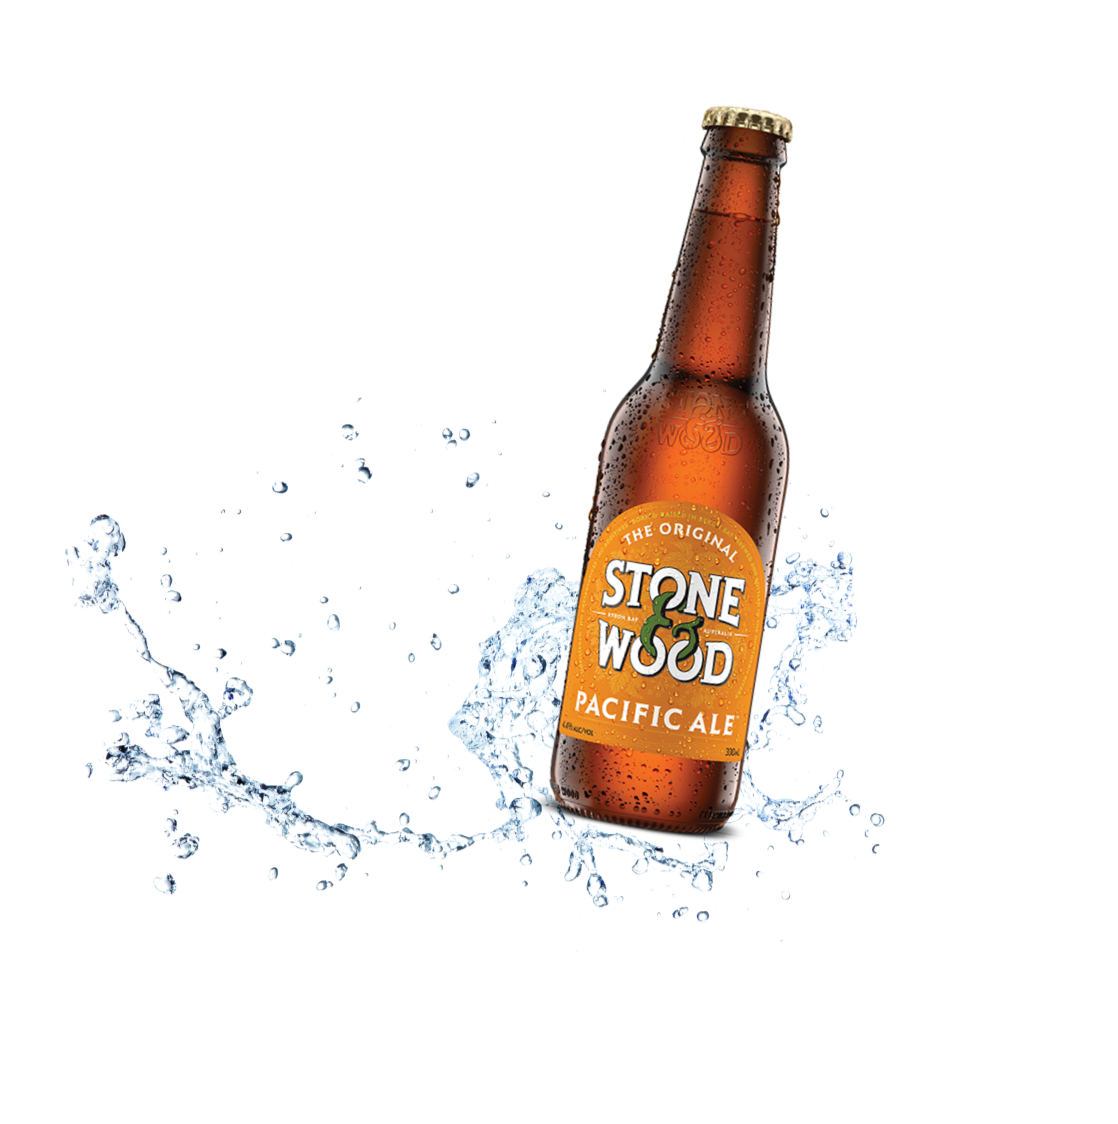
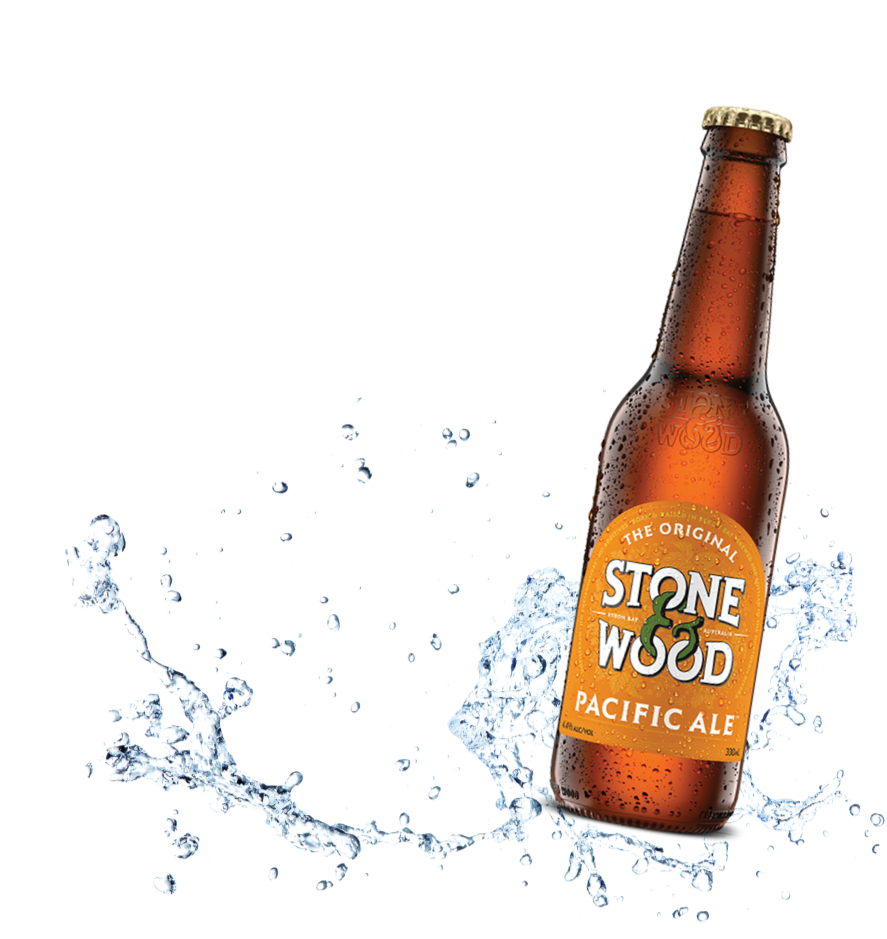
[update] 商品概要セクションの画像位置調整

diff --git a/index.html b/index.html
@@ -80,14 +80,26 @@
 
     </div>
     <div class="product_section">
-      <p class="product_slogan_top"><span class="orange_text">フルーティー</span>な<span class="blue_text">波</span>とともに、<br>最高の時間を過ごしてみませんか？</p>
-      <p class="product_pacificale_title">パシフィックエール</p>
-      <p class="product_pacificale_comment">オーストラリアのバイロベンというところでしか<br>手に入らない希少価値の高いビールです。<br>爽やかな味わいとフルーティーな後味が特徴</p>
-      <img class="product_beer" src="./assets/img/product_beer.png" width="1118" height="1124">
-      <img class="product_slogan_middle" src="./assets/img/product_text.svg" width="765" height="127">
-      <p class="product_lager_comment">ラガーは5度前後の低温で発酵するのに<br>対し、エールは常温〜やや高温で発酵<br>するため、<br>常温でも美味しく飲める！</p>
-      <p class="product_tropical_comment">パッションフルーツ、柑橘系、<br>トロピカルフルーツなど<br>南国を感じる香り！</p>
-      <img class="fruits_beer" src="./assets/img/fruits_beer.png" width="1376" height="975">
+      <div class="product_container">
+        <p class="product_slogan_top"><span class="orange_text">フルーティー</span>な<span class="blue_text">波</span>とともに、<br>最高の時間を過ごしてみませんか？</p>
+        <div class="product_text_wrap">
+          <p class="product_pacificale_title">パシフィックエール</p>
+          <p class="product_pacificale_comment">オーストラリアのバイロベンというところでしか<br>手に入らない希少価値の高いビールです。<br>爽やかな味わいとフルーティーな後味が特徴</p>
+        </div>
+        <img class="product_beer" src="./assets/img/product_beer.png" width="1118" height="1124">
+        <section class="product_middle_section">
+          <div class="product_slogan_middle">
+            <img src="./assets/img/product_text.svg" width="765" height="127">
+          </div>
+          <div class="product_lager_area">
+            <p class="product_lager_comment">ラガーは5度前後の低温で発酵するのに<br>対し、エールは常温〜やや高温で発酵<br>するため、<br>常温でも美味しく飲める！</p>
+            <p class="product_tropical_comment">パッションフルーツ、柑橘系、<br>トロピカルフルーツなど<br>南国を感じる香り！</p>
+          </div>
+          <div class="fruits_beer">
+            <img src="./assets/img/fruits_beer.png" width="1199" height="843">
+          </div>
+        </section>
+      </div>
     </div>
     <div class="company_section">
       <p class="company_section_title">Stone & Wood について</p>

diff --git a/assets/stylesheet.css b/assets/stylesheet.css
@@ -348,8 +348,8 @@ header {
 .product_slogan_top {
   font-size: 3.5rem;
   font-family: 'Noto Serif JP', sans-serif;
-  position: absolute;
-  top: 7.7%;
+  position: static;
+  /* top: 7.7%; */
   left: 10.8%;
 }
 
@@ -361,50 +361,47 @@ header {
   color: #076E95;
 }
 
+.product_text_wrap{
+  width: 48.5%;
+}
+
 .product_pacificale_title {
   font-size: 2.5rem;
   font-family: 'Noto Serif JP', sans-serif;
   font-weight: bold;
-  position: absolute;
+  position: static;
   top: 20.1%;
   left: 12.8%;
   display: inline-block;
   margin-bottom: 0.3%;
 }
 
-.product_pacificale_title:before {
+.product_pacificale_title::after {
   content: '';
-  position: absolute;
-  left: 50%;
-  bottom: -15px;/*線の上下位置*/
-  display: inline-block;
+  display: block;
   width: 27.8vw;/*線の長さ*/
   height: 3px;/*線の太さ*/
   /*位置調整*/
-  -webkit-transform: translateX(-35%);
-  transform: translateX(-35%);
   background-color: #F5A629;/*線の色*/
   border-radius: 2px;/*線の丸み*/
+  margin-top: 10px;
 }
 
 .product_pacificale_comment {
   font-size: 2rem;
   font-family: 'Noto Serif JP', sans-serif;
-  position: absolute;
+  position: static;
   top: 25.8%;
   left: 11.3%;
 }
 
 .product_beer {
-  position: absolute;
-  top: 12.6%;
-  left: 25.9%;
+  margin-top: -46%;
 }
 
 .product_slogan_middle {
-  position: absolute;
-  top: 52.3%;
-  left: 22.5%;
+  text-align: center;
+  margin-bottom: 17px;
 }
 
 .product_lager_area {
@@ -416,23 +413,18 @@ header {
 .product_lager_comment {
   font-size: 2rem;
   font-family: 'Noto Serif JP', sans-serif;
-  position: absolute;
-  top: 63.4%;
-  left: 49%;
+  position: static;
+  margin: 0 0 0 auto;
+  width: 100%;
 }
 
 .product_tropical_comment {
   font-size: 2rem;
   font-family: 'Noto Serif JP', sans-serif;
-  position: absolute;
-  top: 75.2%;
-  left: 49.6%;
 }
 
-.fruits_beer {
-  position: absolute;
-  top: 55.4%;
-  left: 0%;
+.fruits_beer{
+  margin-top: -38%;
 }
 
 .company_section {
